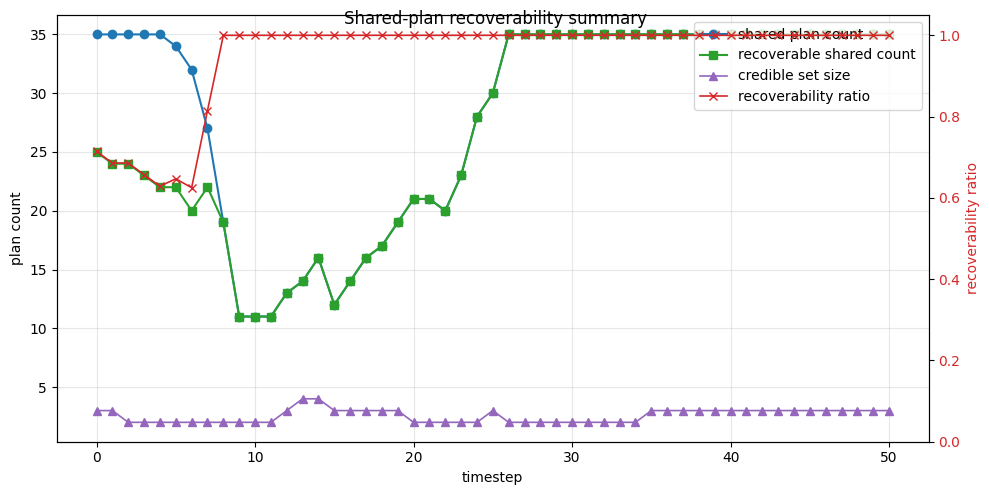
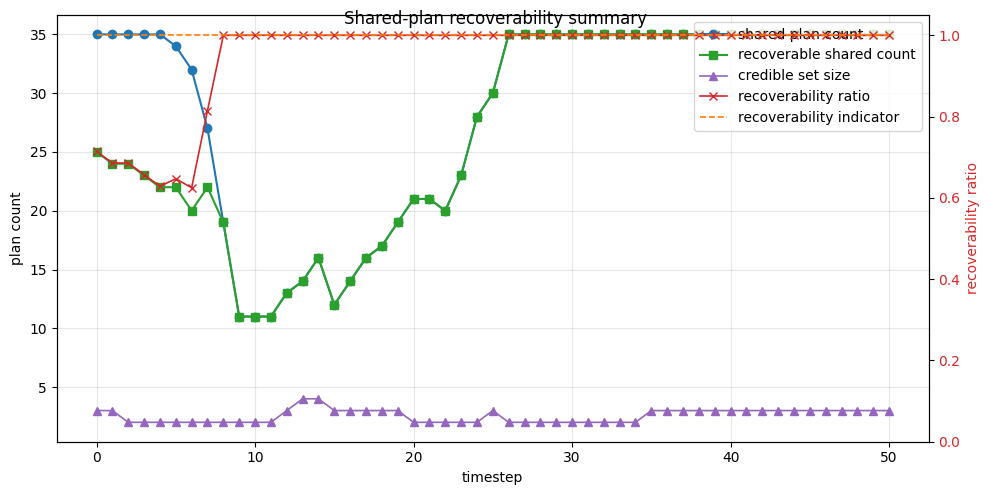
Add recoverability_indicator

diff --git a/planner/Frenet/frenet_planner.py b/planner/Frenet/frenet_planner.py
@@ -220,6 +220,7 @@ class FrenetPlanner(Planner):
             "shared_plan_count": [],
             "recoverable_shared_plan_count": [],
             "credible_set_size": [],
+            "recoverability_indicator": [],
         }
 
         self.long_jerk = []  # 纵向 jerk 记录(调试舒适性)
@@ -931,6 +932,9 @@ class FrenetPlanner(Planner):
                 self.recoverability_history["credible_set_size"].append(
                     int(len(credible_joint_mode_selections))
                 )
+                self.recoverability_history["recoverability_indicator"].append(
+                    int(recoverable_shared_plan_count > 0)
+                )
 
                 # we need to get the belief over the modes to use it as weights in the cost function
                 '''
@@ -1420,6 +1424,7 @@ class FrenetPlanner(Planner):
         recoverable_counts = self.recoverability_history.get("recoverable_shared_plan_count", [])
         shared_counts = self.recoverability_history.get("shared_plan_count", [])
         recoverability_credible_sizes = self.recoverability_history.get("credible_set_size", [])
+        recoverability_indicators = self.recoverability_history.get("recoverability_indicator", [])
         if (
             len(recoverability_timesteps) > 0
             and len(shared_counts) == len(recoverability_timesteps)
@@ -1466,6 +1471,17 @@ class FrenetPlanner(Planner):
             ax2.tick_params(axis="y", labelcolor="tab:red")
             ax2.set_ylim(0.0, 1.05)
 
+            if len(recoverability_indicators) == len(recoverability_timesteps):
+                ax2.step(
+                    recoverability_timesteps,
+                    recoverability_indicators,
+                    where="post",
+                    linewidth=1.2,
+                    color="tab:orange",
+                    linestyle="--",
+                    label="recoverability indicator",
+                )
+
             if len(recoverability_credible_sizes) == len(recoverability_timesteps):
                 ax1.plot(
                     recoverability_timesteps,
@@ -1498,6 +1514,11 @@ class FrenetPlanner(Planner):
                         "shared_plan_count": int(shared_counts[idx]),
                         "recoverable_shared_plan_count": int(recoverable_counts[idx]),
                         "recoverability_ratio": float(recoverability_ratio[idx]),
+                        "recoverability_indicator": (
+                            int(recoverability_indicators[idx])
+                            if idx < len(recoverability_indicators)
+                            else int(recoverable_counts[idx] > 0)
+                        ),
                         "credible_set_size": (
                             int(recoverability_credible_sizes[idx])
                             if idx < len(recoverability_credible_sizes)

diff --git a/planner/Frenet/recoverability_explanation.md b/planner/Frenet/recoverability_explanation.md
@@ -1,0 +1,150 @@
+# Recoverability 说明
+
+这个文档说明当前代码中 `recoverable shared plan`、`recoverability_indicator` 等概念到底代表什么。
+
+## 1. shared plan 是什么
+
+在当前实现里，规划分成两层：
+
+- **shared plan**：先规划出一段“所有场景共用”的主轨迹前半段。
+- **contingent plan**：当后续真实场景逐渐明确后，再针对某个具体场景接上的后半段轨迹。
+
+代码位置：
+
+- `planner/Frenet/frenet_planner.py:827`
+- `planner/Frenet/frenet_planner.py:853`
+
+也就是说，一个完整的 `final_plan` 结构大致是：
+
+- `final_plan["shared_plan"]`
+- `final_plan[0]`：针对第 0 个 credible joint scenario 的 contingent plan
+- `final_plan[1]`：针对第 1 个 credible joint scenario 的 contingent plan
+- ...
+
+## 2. recoverable shared plan 是什么
+
+当前代码里的定义非常具体：
+
+> 如果一条 `shared plan` 在当前 **credible joint scenario set** 中，对每一个可信联合场景都至少存在一条有效的 contingent plan，那么这条 shared plan 就叫 **recoverable shared plan**。
+
+对应判断函数：
+
+- `planner/Frenet/frenet_planner.py:740`
+
+当前逻辑：
+
+- 如果当前根本不需要 contingency，直接视为 `recoverable = True`
+- 如果当前 credible set 为空，也直接视为 `recoverable = True`
+- 否则，必须对 credible set 里的每一个 mode 都找到可行 contingent plan
+- 只要缺一个 mode，对应 shared plan 就是 `recoverable = False`
+
+## 3. 为什么要这样定义
+
+因为 shared plan 是先执行出去的那一段。
+
+如果这段 shared plan 一旦执行之后，面对某个仍然“可信”的后续场景，已经没有任何有效后手可以接，那这条 shared plan 就是不稳妥的。
+
+所以 recoverability 的核心含义是：
+
+> **现在先走这一步，后面是否还留有足够的应对空间。**
+
+这是一种“保留后手”的约束，不是单纯看当前这一瞬间风险低不低。
+
+## 4. 它不等于什么
+
+`recoverable shared plan` 不等于：
+
+- 风险一定最低
+- 当前一定最安全
+- 一定不会碰撞
+- 代价一定最小
+
+它只表示：
+
+- 对当前可信场景集来说，这条 shared plan **后续可接续**
+- 不会出现“shared 先走出去了，但某个可信场景下已经无路可走”的情况
+
+## 5. 在代码中怎么使用
+
+当前实现中，只有 `recoverable == True` 的 `final_plan` 才会进入最终候选集合：
+
+- `planner/Frenet/frenet_planner.py:923`
+
+也就是说，最终排序选优之前，先做了一层 recoverability 过滤。
+
+所以主车最终不会从“不可恢复”的 shared plan 里选解。
+
+## 6. recoverability_history 里的几个量分别是什么意思
+
+### `shared_plan_count`
+
+当前时刻通过 shared 阶段有效性筛选后的 shared plan 数量。
+
+### `recoverable_shared_plan_count`
+
+这些 shared plan 里，有多少条对当前 credible set 是“全覆盖可恢复”的。
+
+### `recoverability_ratio`
+
+定义为：
+
+`recoverable_shared_plan_count / shared_plan_count`
+
+表示当前时刻有效 shared plan 中，有多大比例是可恢复的。
+
+### `recoverability_indicator`
+
+当前新增的二值指示量，定义为：
+
+- `1`：当前时刻至少存在一条 recoverable shared plan
+- `0`：当前时刻一条 recoverable shared plan 都没有
+
+它回答的是一个更直接的问题：
+
+> **此刻系统还有没有“至少一个带后手的选择”？**
+
+## 7. 一个直观例子
+
+假设当前 credible joint scenario set 里有 3 个可信场景：
+
+- 场景 A
+- 场景 B
+- 场景 C
+
+对某条 shared plan：
+
+- A 下能找到 contingent plan
+- B 下能找到 contingent plan
+- C 下找不到 contingent plan
+
+那么这条 shared plan 就是：
+
+- `recoverable = False`
+
+因为它不能覆盖全部 credible 场景。
+
+只有当：
+
+- A / B / C 三种场景下都能接出有效 contingent plan
+
+时，这条 shared plan 才是：
+
+- `recoverable = True`
+
+## 8. 当前实现的一个重要特点
+
+现在 recoverability 是基于 **credible joint scenario set** 检查的，而不是基于“所有联合场景”检查的。
+
+这意味着：
+
+- 我们不要求对极小概率场景全部保守覆盖
+- 只要求对“累计后验概率至少覆盖 `1 - a`”的那组最小可信场景集做可恢复性保证
+
+这样做会比“对所有联合场景全覆盖”更实用，也更不容易过度保守。
+
+## 9. 一句话总结
+
+当前代码里：
+
+> **recoverable shared plan = 一条已经通过 shared 阶段筛选的主轨迹，并且对于当前 credible joint scenario set 中的每一个可信场景，都还存在至少一条有效 contingent 轨迹可以接上。**
+
